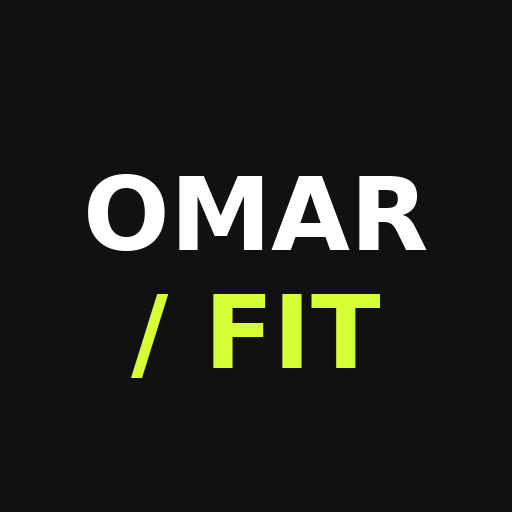
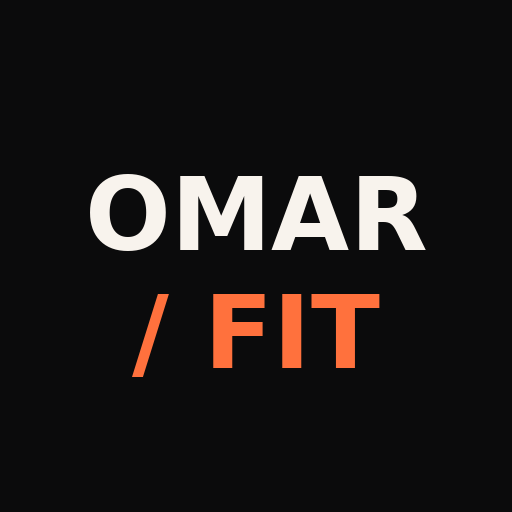
3

diff --git a/index.html b/index.html
@@ -1,11 +1,11 @@
-<!doctype html><html lang="ar" dir="rtl"><head><meta name="storage-mode" content="github-pages"><meta name="build-version" content="20261031-github-01"><meta charset="UTF-8"><meta name="viewport" content="width=device-width, initial-scale=1"><meta name="theme-color" content="#101110"><meta name="description" content="مساحة عمر النجار للتمارين: برنامج أسبوعي ومكتبة حركات متحركة وتسجيل الأوزان والإنجاز."><link rel="manifest" href="./manifest.webmanifest?v=20261031-github-01"><link rel="apple-touch-icon" href="./assets/app-icon-192.png"><meta name="apple-mobile-web-app-capable" content="yes"><meta name="apple-mobile-web-app-status-bar-style" content="black-translucent"><title>OMAR / FIT — كل يوم، أقوى</title><link rel="stylesheet" href="fonts.css?v=20261031-github-01"><link rel="stylesheet" href="style.css?v=20261031-github-01"><link rel="stylesheet" href="upgrade.css?v=20261031-github-01"><link rel="stylesheet" href="balance.css?v=20261031-github-01"><link rel="stylesheet" href="features.css?v=20261031-github-01"><script>if('scrollRestoration' in history)history.scrollRestoration='manual';history.replaceState(null,'',location.pathname+location.search);window.scrollTo(0,0);addEventListener('pageshow',()=>window.scrollTo({top:0,left:0,behavior:'instant'}));</script></head><body>
+<!doctype html><html lang="ar" dir="rtl"><head><meta name="storage-mode" content="github-pages"><meta name="build-version" content="20261031-orange-02"><meta charset="UTF-8"><meta name="viewport" content="width=device-width, initial-scale=1"><meta name="theme-color" content="#0b0b0c"><meta name="description" content="مساحة عمر النجار للتمارين: برنامج أسبوعي ومكتبة حركات متحركة وتسجيل الأوزان والإنجاز."><link rel="manifest" href="./manifest.webmanifest?v=20261031-orange-02"><link rel="apple-touch-icon" href="./assets/app-icon-192.png"><meta name="apple-mobile-web-app-capable" content="yes"><meta name="apple-mobile-web-app-status-bar-style" content="black-translucent"><title>OMAR / FIT — كل يوم، أقوى</title><link rel="stylesheet" href="fonts.css?v=20261031-orange-02"><link rel="stylesheet" href="style.css?v=20261031-orange-02"><link rel="stylesheet" href="upgrade.css?v=20261031-orange-02"><link rel="stylesheet" href="balance.css?v=20261031-orange-02"><link rel="stylesheet" href="features.css?v=20261031-orange-02"><link rel="stylesheet" href="orange-theme.css?v=20261031-orange-02"><script>if('scrollRestoration' in history)history.scrollRestoration='manual';history.replaceState(null,'',location.pathname+location.search);window.scrollTo(0,0);addEventListener('pageshow',()=>window.scrollTo({top:0,left:0,behavior:'instant'}));</script></head><body>
 <header><a href="#" class="logo" dir="ltr">OMAR <span>/ FIT</span></a><nav aria-label="التنقل الرئيسي"><a href="#program" class="active">برنامجي</a><a href="#library">مكتبة التمارين</a><a href="#progress">تقدّمي</a></nav><button id="profile" class="profile"><span class="avatar">ON</span><span id="username">عمر النجار</span><span class="small-arrow">⌄</span></button></header>
-<div id="saveIndicator" class="save-strip"><span id="saveStatus" data-mode="loading">جاري فتح سجلك على هذا الجهاز…</span><button id="retrySave" class="text-btn" hidden>إعادة المحاولة</button></div><div id="appGate" class="app-gate"><div><strong>سجلّك. خطتك. تقدّمك.</strong><p id="gateMessage">جاري فتح مساحتك…</p><button id="gateRetry" class="primary" hidden>إعادة المحاولة</button></div></div><main><section class="hero"><div class="hero-copy"><h1>كل يوم، <em>أقوى.</em></h1><p>خطتك واضحة. تمرينك محسوب. تقدّمك مستمر.</p><button class="primary" id="start">ابدأ تمرين اليوم <span data-icon="arrow"></span></button></div><div class="hero-photo" role="img" aria-label="رياضي يؤدي تمرين الدمبل في الجيم"></div><div class="hero-bottom" dir="ltr">YOUR ONLY COMPETITION IS YOU.</div></section>
+<div id="saveIndicator" class="save-strip"><span id="saveStatus" data-mode="loading">جاري فتح سجلك على هذا الجهاز…</span><button id="retrySave" class="text-btn" hidden>إعادة المحاولة</button></div><div id="appGate" class="app-gate"><div><strong>سجلّك. خطتك. تقدّمك.</strong><p id="gateMessage">جاري فتح مساحتك…</p><button id="gateRetry" class="primary" hidden>إعادة المحاولة</button></div></div><main><section class="hero"><div class="hero-copy"><span class="hero-kicker" dir="ltr">OMAR / FIT — BUILT BY YOU.</span><h1>كل يوم، <em>أقوى.</em></h1><p>خطتك واضحة. تمرينك محسوب. تقدّمك مستمر.</p><button class="primary" id="start">ابدأ تمرين اليوم <span data-icon="arrow"></span></button></div><div class="hero-photo" role="img" aria-label="رياضي يؤدي تمرين الدمبل في الجيم"></div><div class="hero-bottom" dir="ltr">YOUR ONLY COMPETITION IS YOU.</div></section>
 <section class="workspace" id="program"><div class="section-line"><div><span class="overline" dir="ltr">THE WEEKLY PLAN</span><h2>أسبوعك. على خطتك.</h2></div><div class="plan-controls"><button id="prevWeek" class="icon-btn" aria-label="الأسبوع السابق" data-icon="right"></button><span id="weeklabel"></span><button id="nextWeek" class="icon-btn" aria-label="الأسبوع التالي" data-icon="left"></button><button class="outline compact" id="editPlan"><span data-icon="edit"></span> تخصيص الجدول</button></div></div><div id="days" class="days" role="tablist" aria-label="أيام الأسبوع"></div>
 <section class="motivation-banner" aria-label="تحفيز اليوم"><div class="motivation-mark" aria-hidden="true">“</div><div><span class="overline">دفعتك لليوم</span><h2 id="motivationText"></h2><p id="motivationDetail"></p></div><button id="nextMotivation" class="outline compact">عبارة جديدة <span data-icon="arrow"></span></button></section>
 <div class="training-layout"><section class="training"><div class="training-head"><div><div class="overline" id="daymeta"></div><h2 id="daytitle"></h2><p id="daydesc" class="muted"></p></div><span class="session-count" id="sessionCount"></span></div><div class="warmup"><span data-icon="bolt"></span><span>ابدأ بـ ٥–١٠ دقائق إحماء، ثم مجموعات خفيفة للتمرين الأول. اترك تكرارين في الاحتياط، وسجّل أداءك الفعلي لكل جولة.</span></div><div class="session-launch"><button class="primary" id="focusStart">ابدأ وضع الحصة ←</button></div><div id="focusBar" class="focus-bar" hidden><div><span class="overline">حصة بتركيز كامل</span><strong id="focusCount"></strong><button id="focusTimer" class="focus-timer" aria-label="تشغيل أو إيقاف مؤقت الراحة"><span id="focusTime" dir="ltr">01:00</span><small>مؤقت الراحة</small></button></div><button class="outline compact" id="focusExit">عرض كل التمارين</button><div class="focus-navigation"><button class="outline" id="focusPrev">→ السابق</button><button class="primary" id="focusNext">التمرين التالي ←</button></div></div><div id="exerciseList"></div><div id="workoutActions" class="workout-actions"><button class="outline" id="addExercise"><span data-icon="plus"></span> إضافة تمرين</button><button class="primary" id="finish">إنهاء الحصة <span data-icon="check"></span></button></div></section>
 <aside><div class="timer-panel"><h3>مؤقت الراحة</h3><p class="muted">خذ نفساً. وارجع أقوى.</p><div class="timer-ring" id="timerRing"><strong id="time" dir="ltr" aria-live="off">01:00</strong></div><div id="timerStatus" class="timer-status" role="status">جاهز للمجموعة التالية</div><button class="outline lime full" id="timerToggle"><span data-icon="play"></span> ابدأ المؤقت</button><div class="timer-presets"><button data-seconds="60" class="selected">1:00</button><button data-seconds="90">1:30</button><button data-seconds="120">2:00</button><button data-seconds="180">3:00</button></div><div class="timer-tools"><button class="outline compact" id="timerExtend">+ ٣٠ ثانية</button><button class="text-btn" id="timerReset">إعادة ضبط</button></div><p class="timer-hint">دقيقة راحة بعد كل جولة مكتملة. يمكنك تمديدها حسب حاجتك وجودة أدائك.</p></div><section class="alert-settings" aria-labelledby="alertsTitle"><span class="overline">YOUR REST. YOUR SIGNAL.</span><h3 id="alertsTitle">تنبيهات الراحة</h3><p id="notificationStatus" role="status"></p><button class="primary full" id="enableAlerts" aria-pressed="false">تفعيل إشعارات النظام</button><label class="alert-switch"><span>صوت انتهاء الراحة</span><input type="checkbox" id="soundAlert"></label><label class="alert-switch"><span>اهتزاز الجهاز</span><input type="checkbox" id="vibrationAlert"></label><small id="vibrationHelp"></small><button class="outline full" id="testAlerts">تجربة التنبيه</button><p class="alert-limit">أبقِ الموقع مفتوحاً أثناء الحصة. قد يتأخر التنبيه عند قفل الشاشة أو تعليق المتصفح؛ لا يصل تنبيه جديد بعد إغلاق الموقع.</p><details><summary>تثبيت الموقع على الهاتف</summary><p>آيفون: افتح الموقع في Safari ← مشاركة ← إضافة إلى الشاشة الرئيسية. افتحه من الأيقونة ثم فعّل الإشعارات.</p><p>أندرويد: قائمة المتصفح ← تثبيت التطبيق أو إضافة إلى الشاشة الرئيسية.</p><button class="outline full" id="installApp" hidden>تثبيت OMAR / FIT</button></details></section><div class="coach-note"><span class="overline">تذكيرك اليومي</span><h3>الجودة قبل الوزن.</h3><p>تحكّم بالحركة، وسجّل أوزانك. عندما تكمل أعلى عدد من التكرارات بسهولة، ارفع الوزن تدريجياً.</p></div></aside></div></section>
 <section id="library" class="library workspace"><div class="section-line"><div><span class="overline" dir="ltr">MOVE WITH PURPOSE</span><h2>افهم الحركة. أتقن التمرين.</h2><p class="muted">مكتبة الحركات • رسوم توضيحية متحركة لكل تمرين</p></div><label class="search"><span data-icon="search"></span><input id="search" placeholder="ابحث عن تمرين..." aria-label="البحث في التمارين"></label></div><div class="motion-library-toolbar"><p id="motionCount" class="muted" role="status"></p><button id="motionLibraryToggle" class="outline compact" aria-pressed="true">إيقاف الحركات</button></div><div id="filters" class="filters" aria-label="تصفية حسب العضلة"></div><div id="libraryGrid" class="library-grid"></div><p class="media-credit">مصدر الرسوم المتحركة: Fitness Programer — حقوق الرسوم لأصحابها. مجموعة «تمارين الترابيس» تضم الحركات العشر التي اخترتها.</p></section>
 <section id="progress" class="workspace progress-section"><div class="section-line"><div><span class="overline" dir="ltr">SHOW UP. GET STRONGER.</span><h2>كل حصة تصنع فرقاً.</h2></div><div class="backup-actions"><button class="outline" id="export"><span data-icon="download"></span> نسخة احتياطية</button><button class="outline" id="importBackup">استعادة نسخة</button><input id="backupFile" type="file" accept="application/json,.json" hidden></div></div><div class="progress-grid"><div><strong id="completedSessions">0</strong><span>حصص مكتملة هذا الأسبوع</span></div><div><strong id="completedSets">0</strong><span>مجموعات مسجّلة هذا الأسبوع</span></div><div><strong id="weekPercent">0%</strong><span>التزامك بجدول الأسبوع</span></div></div><div class="ledger-title"><div><h3>دفتر الأوزان الأسبوعي</h3><p>كل جولة بوزنها وتكراراتها الفعلية.</p></div><label>اختر الأسبوع<select id="savedWeeks" aria-label="الأسبوع المحفوظ"></select></label></div><div id="weeklyHistory" class="weekly-ledger"></div><section class="monthly-report" aria-labelledby="monthlyTitle"><div class="report-header"><div><span class="overline">YOUR MONTH IN MOTION</span><h3 id="monthlyTitle">تقدّمك خلال الشهر.</h3></div><label>الشهر<input type="month" id="reportMonth" aria-label="شهر التقرير"></label></div><div class="monthly-stats" id="monthlyStats"></div><p class="report-caption">الالتزام يحسب أيام التدريب المجدولة حتى اليوم وفق الخطط المحفوظة. الرسم يعرض أعلى وزن لجولة مكتملة من التمرين نفسه، حسب يوم الحصة.</p><label class="field">اختر التمرين<select id="reportExercise"></select></label><div id="weightChart" class="weight-chart"></div><details><summary>عرض بيانات الرسم</summary><div id="chartTable"></div></details></section><div id="history" class="history"></div><p class="storage-note">نسخة GitHub Pages: تُحفظ أوزانك وملاحظاتك في هذا المتصفح على هذا الجهاز فقط. لا توجد مزامنة حساب. مسح بيانات المتصفح قد يحذفها؛ صدّر نسخة احتياطية بانتظام واستوردها عند تغيير الجهاز.</p></section>
-<footer><a class="logo" href="#" dir="ltr">OMAR <span>/ FIT</span></a><p>خطوة صغيرة اليوم. نسخة أقوى منك غداً.</p><p>البرنامج نموذج عام قابل للتعديل، وليس تقييماً شخصياً. اضبطه مع مدربك حسب مستواك؛ توقف عند الألم.</p><a href="https://acsm.org/resistance-training-guidelines-update-2026/" target="_blank" rel="noopener">دليل ACSM للتدريب بالمقاومة ↗</a><p class="build-version" dir="ltr">GitHub Edition · 20261031-github-01</p></footer></main>
-<dialog id="modal"><button id="closeModal" class="close icon-btn" aria-label="إغلاق" data-icon="close"></button><div id="modalContent"></div></dialog><div class="toast" role="status" id="toast"></div><script type="module" src="app.js?v=20261031-github-01"></script></body></html>
+<footer><a class="logo" href="#" dir="ltr">OMAR <span>/ FIT</span></a><p>خطوة صغيرة اليوم. نسخة أقوى منك غداً.</p><p>البرنامج نموذج عام قابل للتعديل، وليس تقييماً شخصياً. اضبطه مع مدربك حسب مستواك؛ توقف عند الألم.</p><a href="https://acsm.org/resistance-training-guidelines-update-2026/" target="_blank" rel="noopener">دليل ACSM للتدريب بالمقاومة ↗</a><p class="build-version" dir="ltr">GitHub Edition · 20261031-orange-02</p></footer></main>
+<dialog id="modal"><button id="closeModal" class="close icon-btn" aria-label="إغلاق" data-icon="close"></button><div id="modalContent"></div></dialog><div class="toast" role="status" id="toast"></div><script type="module" src="app.js?v=20261031-orange-02"></script></body></html>

diff --git a/orange-theme.css b/orange-theme.css
@@ -1,0 +1,10 @@
+/* OMAR / FIT — Ember. Black, warm graphite and signature orange. */
+:root{--bg:#0b0b0c;--surface:#161618;--line:#303033;--text:#f5f2ed;--muted:#aaa5a0;--lime:#ff713d;--orange:#ff713d;--radius:16px;color-scheme:dark}
+body{background:#0b0b0c;color:#f5f2ed}::selection{background:#ff713d;color:#111}header{background:#0c0c0df5;border-color:#29292c;color:#f8f5ef}.logo span{color:#ff713d}.avatar{border-color:#684330;color:#ff956d;background:#211a17}nav a.active,nav a:hover{color:#ff956d}nav a.active:after{background:#ff713d}.primary{background:#ff713d;color:#140e0a;font-weight:900;border:1px solid #ff713d;box-shadow:none;transition:background .18s,transform .18s}.primary:hover{background:#ff8a5d;border-color:#ff8a5d;transform:translateY(-1px)}.primary:active{transform:translateY(0)}.outline,.text-btn,.icon-btn{color:#e5d8ce;border-color:#4d4038}.outline:hover,.icon-btn:hover{background:#2c211c;border-color:#ff713d;color:#ffb496}.muted,.english{color:#aba5a0}.overline{color:#e29370}
+.hero{background:#101011;border-bottom:1px solid #35251e;color:#f8f5ef;min-height:480px}.hero h1{color:#f8f5ef;letter-spacing:-1px}.hero h1 em{color:#ff713d}.hero p{color:#bfb8b2}.hero-photo{filter:saturate(.15);opacity:.86}.hero-copy{position:relative;z-index:1}.hero-kicker{display:inline-flex;align-items:center;gap:10px;color:#eaa080;font:700 13px 'Barlow Condensed',sans-serif;letter-spacing:2.5px;margin-bottom:20px}.hero-kicker:before{content:'';width:28px;height:3px;background:#ff713d}.hero-bottom{color:#f7ad8a;letter-spacing:3px;border-color:#453026}.hero .primary{margin-top:30px}.workspace>.section-line h2,.training-head h2{color:#f8f4ee}.workspace>.section-line .overline{color:#cf8868}.section-line .outline,.plan-controls .icon-btn{color:#ded1c7;border-color:#4b3e36}.plan-controls>span{color:#b4aaa2}.days{background:#151516;border:1px solid #303033;box-shadow:none;border-radius:15px;padding:6px}.day{color:#b8b1a9;border-color:#303033;border-radius:10px}.day:hover:not(.selected){background:#24201e;color:#f3d5c2}.day.selected{background:#ff713d;color:#170d08;box-shadow:none}.day.selected small,.day.selected svg{color:#2f160d}.motivation-banner{background:#1c1714;border:1px solid #503323;border-right:4px solid #ff713d;box-shadow:none;border-radius:14px}.motivation-mark{color:#ff713d}.motivation-banner h2{color:#f7f1e9}.motivation-banner p{color:#bfae9e}.motivation-banner .overline{color:#e99a76}.motivation-banner .outline{color:#f5b391;border-color:#6d4632}.training-head .muted{color:#aaa29b}.session-count{background:#271a13;color:#ffa77d;border-color:#5c3625}.warmup{background:#191716;color:#bdada1;border-color:#3a2d25;border-radius:10px}.warmup svg{color:#ff9367}
+.exercise-row,.exercise-row:first-child{background:#18181a;border:1px solid #343235;border-radius:18px;box-shadow:0 8px 28px #0000001c;padding:24px;margin-bottom:22px}.exercise-row:hover{border-color:#6d4431}.exercise-row.exercise-complete{background:#201916;border-color:#ac5b34}.exercise-info b{color:#f7f3ec}.exercise-info .english{color:#a49c95}.exercise-order{color:#e79d77}.exercise-topline .tag{color:#f4aa83;background:#302017;border-color:#68412b}.exercise-completion{color:#aaa09a}.workout-metrics,.workout-metrics>div{border-color:#383237}.workout-metrics strong{color:#fff2e7}.workout-metrics span{color:#a99d94}.workout-visual{border:1px solid #423a34;border-radius:12px;background:#f8f5ef}.workout-visual .row-thumb{background:#fff}.visual-caption{background:#28211d;color:#ffb58e;border-color:#574031}.workout-visual:hover .visual-caption{background:#ff713d;color:#190f09}.exercise-tip{color:#b8a99d}.exercise-tip svg{color:#ff956a}.round-log{border-color:#40352d;border-radius:10px}.round-log-head{background:#24201d;color:#ba9f8c}.round-log-row{background:#171719;border-color:#332d29}.round-number{color:#e6aa84}.round-input{background:#0e0e10;border:1px solid #514137;color:#fff3e9;border-radius:7px}.round-input::placeholder{color:#877a6f}.round-input:focus{border-color:#ff713d}.round-log-row .set-check{background:#2c211a;border-color:#76513a;color:#ffc39d}.round-log-row .set-check.checked{background:#ff713d;border-color:#ff713d;color:#1b0d06}.round-done{background:#2b1b13}.round-comparison{color:#bfa995;border-color:#493426}.last-weight-note{background:#272019;color:#cdb09b;border:1px solid #493325;border-radius:8px}.last-weight-note b,.last-weight-note .text-btn{color:#ffb68c}.exercise-extras{border-color:#3c332d}.exercise-note{color:#c5b5a8}.exercise-note textarea{background:#111113;color:#f5e9df;border-color:#4d3a2d;border-radius:10px}.exercise-note textarea::placeholder{color:#8f8075}.workout-actions .outline{color:#efb593;border-color:#6b4935}
+.timer-panel{background:#141416;border:1px solid #62402c;border-radius:18px;box-shadow:inset 0 3px 0 #ff713d}.timer-panel h3{color:#fff2e7}.timer-panel .muted{color:#a58f80}.timer-ring{background:conic-gradient(#ff713d var(--angle,360deg),#34302d 0)}.timer-ring:before{background:#141416}.timer-ring strong{color:#fff2e8}.timer-status{color:#c1aa98}.timer-panel .outline,.timer-panel .text-btn{color:#ffb68c;border-color:#76513a}.timer-presets button{background:#242020;border-color:#594033;color:#cbb9a9}.timer-presets .selected{background:#ff713d;color:#1a0d06;border-color:#ff713d}.timer-hint{color:#9e8d80;border-color:#3a2b22}.coach-note{color:#e9b493}.coach-note .overline{color:#c38664}.coach-note p{color:#a68e7a}.alert-settings{background:#191719;color:#ede0d5;border-color:#49352a;border-radius:18px}.alert-settings h3{color:#fff0e5}.alert-settings .overline{color:#dd9470}.alert-switch{border-color:#3d3028}.alert-switch input{accent-color:#ff713d}.alert-settings small,.alert-limit{color:#b49d8a}.focus-bar{background:#201814;border:1px solid #68402a;color:#fff2e9}.focus-bar .outline{color:#ffc29e;border-color:#76503a}.focus-timer{background:#ff713d;color:#190d07}.focus-bar .overline{color:#de956d}
+.library{background:#121213;border:1px solid #343033;border-top:3px solid #ff713d;border-radius:20px;box-shadow:none}.library>.section-line h2{color:#f5f0e9}.library>.section-line .overline{color:#e69b73}.library .exercise-card{background:#1c1a1a;color:#f6ede4;border-color:#44362c;border-radius:15px;overflow:hidden;box-shadow:none}.library .card-copy .english{color:#ae9d8e}.library .card-foot{border-color:#483225}.library .card-foot .tag,.library .card-foot button{color:#f5b48b}.library .media-btn .play{background:#211a14;border-color:#a86b40;color:#ffc090}.library .media-credit{color:#a38872}.library .outline{color:#edb08a;border-color:#775238}.library .filter{color:#bda693;border-color:#574031;background:#1c1816}.library .filter.selected{background:#ff713d;color:#190d06;border-color:#ff713d}.library .search{background:#1b1817;border-color:#513b2d}.library input{background:#1b1817;color:#f4e3d4;border-color:#513b2d}.progress-section{border-color:#4f3625}.progress-section .outline{color:#efb58c;border-color:#76543a}.progress-grid{background:#1b1816;border-color:#553b28;border-radius:16px}.progress-grid>div{border-color:#4b3324}.progress-grid strong{color:#ff9562}.progress-grid span{color:#bca18a}.ledger-title h3{color:#f5e5d6}.ledger-title p,.ledger-title label{color:#b1947d}.ledger-title select{background:#211a15;color:#f3cfac;border-color:#725237}.ledger-exercise{background:#1c1816;color:#f0dfcf;border-color:#503725;border-radius:13px}.ledger-exercise>div:first-child>span{color:#b0967d}.ledger-round{background:#2b2119;color:#f7deca}.ledger-round>b{color:#b99271}.ledger-round small{color:#edb27f}.history-row{border-color:#4a3121;color:#d6b08b}.history-row .muted,.storage-note{color:#a88b72}
+.monthly-report{background:#181617;color:#f4e5d8;border-color:#503625}.report-header h3{color:#f9eee3}.report-header input,.monthly-report select{background:#100f10;color:#f4d6bb;border-color:#6a4931}.monthly-stats>div{background:#2b2019}.monthly-stats strong{color:#ff9b63}.monthly-stats span,.report-caption{color:#c0a188}.weight-chart text{fill:#c1a18b}.monthly-report th,.monthly-report td{border-color:#4d3221}.alternative-card{background:#201a16;border-color:#654329}.alternative-card h3{color:#ffe3c8}.empty{color:#b79880}footer{background:#101011;color:#eee2d6;border-color:#55351f}footer p{color:#a88c75}.build-version{color:#ffaf7d!important}.save-strip{background:#221a15;color:#ecc4a2;border-color:#805135;box-shadow:0 5px 24px #0007}.save-strip .text-btn{color:#ffb87e}#saveStatus[data-mode="saved"]:before{color:#ff9f5c}#saveStatus[data-mode="preview"]{color:#ba997e}#saveStatus[data-mode="queued"],#saveStatus[data-mode="error"]{color:#ffb684}.app-gate{background:#0d0b0bee}.app-gate>div{background:#201813;border-color:#6b4027;box-shadow:0 10px 45px #0008}.app-gate strong{color:#ffbe8e}.app-gate p{color:#ba9679}dialog{background:#1c1918;color:#f4e7da;border:1px solid #775033;border-radius:20px}dialog .field input,dialog .field select,dialog .editor-row input{background:#100f10;color:#f6d7bb;border-color:#6c4930}dialog .instructions{color:#d3b99f}dialog .tag{color:#edaf7a}.toast{background:#ff713d;color:#1b0c04;border-color:#ff9a6c}.rest-day{background:#1d1814;border-color:#62402a;color:#edc5a2}
+@media(max-width:760px){.hero{min-height:420px}.hero-kicker{font-size:11px;letter-spacing:1.8px;margin-bottom:12px}.exercise-row,.exercise-row:first-child{padding:18px;border-radius:15px}.save-strip{border-color:#805135}.motivation-banner{border-right-width:3px}.library{border-radius:16px}.session-mode .focus-bar{box-shadow:0 10px 25px #0005}}
+@media(prefers-reduced-motion:reduce){.primary{transition:none}.primary:hover{transform:none}}

diff --git a/workout-features.js b/workout-features.js
@@ -1,4 +1,4 @@
-import {priorRound,compareRound,monthlyReport,alternatives} from './training-insights.js?v=20261031-github-01';
+import {priorRound,compareRound,monthlyReport,alternatives} from './training-insights.js?v=20261031-orange-02';
 export function setupFeatures({getState,save,context,exercises,render,modal,toast,escape:esc}){
  const $=s=>document.querySelector(s);let focus=false,index=0,lastContext='',month=context().today.slice(0,7),chartId='bench';
  const find=id=>exercises.find(e=>e.id===id);
@@ -7,7 +7,7 @@ export function setupFeatures({getState,save,context,exercises,render,modal,toas
  function report(){const state=getState(),r=monthlyReport(state,month,context().today,chartId);$('#reportMonth').value=month;$('#reportExercise').innerHTML=exercises.map(e=>`<option value="${e.id}" ${chartId===e.id?'selected':''}>${e.name}</option>`).join('');$('#monthlyStats').innerHTML=`<div><strong>${r.completed}</strong><span>حصص مكتملة</span></div><div><strong>${r.sets}</strong><span>جولات مكتملة</span></div><div><strong>${r.adherence}%</strong><span>التزام · ${r.completed} من ${r.planned} حصة مجدولة حتى اليوم</span></div>`;
  const points=r.points;if(!points.length){$('#weightChart').innerHTML='<p class="empty">سجّل جولة مكتملة لهذا التمرين ليظهر تطوّر وزنك هنا.</p>';$('#chartTable').innerHTML='';return}
  const max=Math.max(...points.map(p=>p.weight),1),days=new Date(+month.slice(0,4),+month.slice(5),0).getDate(),x=p=>45+(+p.date.slice(-2)-1)/(days-1)*650,y=p=>185-p.weight/max*150;
- $('#weightChart').innerHTML=`<svg viewBox="0 0 740 230" role="img" aria-label="أعلى وزن مسجل في جولة مكتملة لكل يوم بالكيلوغرام"><path d="M45 25V185H710" fill="none" stroke="#c7cfc0"/><text x="8" y="30">${max}</text><text x="20" y="190">0</text><text x="45" y="215">1</text><text x="685" y="215">${days}</text>${points.length>1?`<polyline points="${points.map(p=>`${x(p)},${y(p)}`).join(' ')}" fill="none" stroke="#466722" stroke-width="3"/>`:''}${points.map(p=>`<circle cx="${x(p)}" cy="${y(p)}" r="5" fill="#1c2a14"><title>${p.date}: ${p.weight} كغم</title></circle>`).join('')}</svg>`;
+ $('#weightChart').innerHTML=`<svg viewBox="0 0 740 230" role="img" aria-label="أعلى وزن مسجل في جولة مكتملة لكل يوم بالكيلوغرام"><path d="M45 25V185H710" fill="none" stroke="#65432d"/><text x="8" y="30">${max}</text><text x="20" y="190">0</text><text x="45" y="215">1</text><text x="685" y="215">${days}</text>${points.length>1?`<polyline points="${points.map(p=>`${x(p)},${y(p)}`).join(' ')}" fill="none" stroke="#ff713d" stroke-width="3"/>`:''}${points.map(p=>`<circle cx="${x(p)}" cy="${y(p)}" r="5" fill="#ffae7e"><title>${p.date}: ${p.weight} كغم</title></circle>`).join('')}</svg>`;
  $('#chartTable').innerHTML=`<table><caption>أعلى وزن مسجّل لكل يوم — ${esc(find(chartId).name)}</caption><thead><tr><th>التاريخ</th><th>الوزن / كغم</th></tr></thead><tbody>${points.map(p=>`<tr><td>${p.date}</td><td>${p.weight}</td></tr>`).join('')}</tbody></table>`;
  }
  $('#focusStart').onclick=()=>{focus=true;index=0;syncFocus();$('#program').scrollIntoView({behavior:'instant'})};$('#focusExit').onclick=()=>{focus=false;syncFocus()};$('#focusPrev').onclick=()=>{index=Math.max(0,index-1);syncFocus();$('#focusBar').scrollIntoView({behavior:'instant'})};$('#focusNext').onclick=()=>{if(index===context().items.length-1){$('#finish').click();return}index++;syncFocus();$('#focusBar').scrollIntoView({behavior:'instant'})};

diff --git a/app.js b/app.js
@@ -1,8 +1,8 @@
-import {setupFeatures} from './workout-features.js?v=20261031-github-01';
-import {RestAlerts} from './rest-alerts.js?v=20261031-github-01';
-import {exercises,dayNames,defaultPlan,planRevision,planLogRevision} from './data.js?v=20261031-github-01';
-import {createInitialState,normalizeState,ensureWeek,latestWeight,mergeBackup} from './workout-model.js?v=20261031-github-01';
-import {PrivateStore} from './cloud-store.js?v=20261031-github-01';
+import {setupFeatures} from './workout-features.js?v=20261031-orange-02';
+import {RestAlerts} from './rest-alerts.js?v=20261031-orange-02';
+import {exercises,dayNames,defaultPlan,planRevision,planLogRevision} from './data.js?v=20261031-orange-02';
+import {createInitialState,normalizeState,ensureWeek,latestWeight,mergeBackup} from './workout-model.js?v=20261031-orange-02';
+import {PrivateStore} from './cloud-store.js?v=20261031-orange-02';
 const $=s=>document.querySelector(s), $$=s=>[...document.querySelectorAll(s)];
 const paths={arrow:'M18 12H6m5-5-5 5 5 5',left:'m14 6-6 6 6 6',right:'m10 6 6 6-6 6',edit:'m15 5 4 4M4 20l4-1L20 7a2.8 2.8 0 0 0-4-4L4 15z',check:'m5 12 4 4L19 6',plus:'M12 5v14M5 12h14',play:'m8 5 11 7-11 7z',close:'m6 6 12 12M18 6 6 18',search:'M20 20l-5-5M17 10a7 7 0 1 1-14 0 7 7 0 0 1 14 0',bolt:'m13 2-9 12h7l-1 8 10-13h-7z',download:'M12 3v12m-5-5 5 5 5-5M4 16v5h16v-5',dumbbell:'M6 5v14M3 8v8M18 5v14M21 8v8M6 12h12',rest:'M4 17V7m0 7h16v5M4 10h5v4m0-4h8a3 3 0 0 1 3 3v1',trash:'M3 6h18M9 6V3h6v3M6 6l1 15h10l1-15M10 10v7m4-7v7',pause:'M8 5v14m8-14v14'};
 function icon(n){return `<svg viewBox="0 0 24 24" fill="none" stroke="currentColor" stroke-width="1.7" stroke-linecap="round" stroke-linejoin="round" aria-hidden="true"><path d="${paths[n]||paths.dumbbell}"/></svg>`}

diff --git a/training-insights.js b/training-insights.js
@@ -1,5 +1,5 @@
-import {weekFor} from './workout-model.js?v=20261031-github-01';
-import {defaultPlan} from './data.js?v=20261031-github-01';
+import {weekFor} from './workout-model.js?v=20261031-orange-02';
+import {defaultPlan} from './data.js?v=20261031-orange-02';
 export function dayDate(week,day){const d=new Date(week+'T12:00:00');d.setDate(d.getDate()+Number(day));return `${d.getFullYear()}-${String(d.getMonth()+1).padStart(2,'0')}-${String(d.getDate()).padStart(2,'0')}`}
 export function priorRound(state,week,day,id,index){const p=new Date(week+'T12:00:00');p.setDate(p.getDate()-7);const key=dayDate(p.toISOString().slice(0,10),0);const set=state.logs[`${key}/${day}/${id}`]?.sets?.[index];return set?.done&&set.weight!==''&&set.reps!==''?set:null}
 export function compareRound(current,previous){

diff --git a/workout-model.js b/workout-model.js
@@ -1,4 +1,4 @@
-import {defaultPlan,exercises} from './data.js?v=20261031-github-01';
+import {defaultPlan,exercises} from './data.js?v=20261031-orange-02';
 export const schemaVersion=4;
 const clone=x=>structuredClone(x);
 export const weekFor=(date=new Date())=>{const parts=date.toLocaleDateString('en-CA',{timeZone:'Asia/Baghdad'}).split('-').map(Number),d=new Date(parts[0],parts[1]-1,parts[2],12);d.setDate(d.getDate()-(d.getDay()+1)%7);return `${d.getFullYear()}-${String(d.getMonth()+1).padStart(2,'0')}-${String(d.getDate()).padStart(2,'0')}`};

diff --git a/cloud-store.js b/cloud-store.js
@@ -1,4 +1,4 @@
-import {normalizeState} from './workout-model.js?v=20261031-github-01';
+import {normalizeState} from './workout-model.js?v=20261031-orange-02';
 // GitHub Pages has no authenticated backend. Keep storage local and clearly labelled.
 export class PrivateStore {
  constructor({onStatus,onRemote}){Object.assign(this,{onStatus,onRemote});this.ready=false;this.currentState=null;this.key='omar-fit-github-v4:'+new URL('.',document.baseURI).pathname;try{this.storage=window.localStorage}catch{this.storage=null}}

diff --git a/README.md b/README.md
@@ -1,6 +1,6 @@
 # OMAR / FIT — GitHub Pages Edition
 
-الإصدار: 20261031-github-01 — جميع تحديثات 31 أكتوبر 2026.
+الإصدار: 20261031-orange-02 — هوية أورنج وأسود، مع جميع تحديثات 31 أكتوبر 2026.
 
 ## رفع النسخة الصحيحة
 
@@ -8,7 +8,7 @@
 2. يجب أن تشاهد index.html بجانب app.js وstyle.css ومجلد assets في أول صفحة للمستودع.
 3. من Settings → Pages اختر Deploy from a branch ثم الفرع الذي رفعت عليه الملفات (غالباً main) ثم / (root)، واضغط Save. إذا كنت تستخدم docs كمصدر للنشر، ضع جميع الملفات فيه بدلاً من الجذر.
 4. راقب Actions حتى تنجح عملية pages build and deployment. بعد اكتمالها افتح رابط الموقع واضغط Ctrl + Shift + R. لا تمسح بيانات الموقع حتى لا تفقد أوزانك المحلية.
-5. تحقق من أسفل الصفحة: GitHub Edition · 20261031-github-01. هذا يؤكد أنك تشاهد النسخة الجديدة.
+5. تحقق من أسفل الصفحة: GitHub Edition · 20261031-orange-02. هذا يؤكد أنك تشاهد النسخة الجديدة.
 
 هذه نسخة HTML/CSS/JS جاهزة، لا تحتاج Node أو npm أو Build على GitHub. تعمل على دومين مخصص أو على رابط مستخدم.github.io/اسم-المستودع/؛ مسارات الصور والإشعارات نسبية.
 
